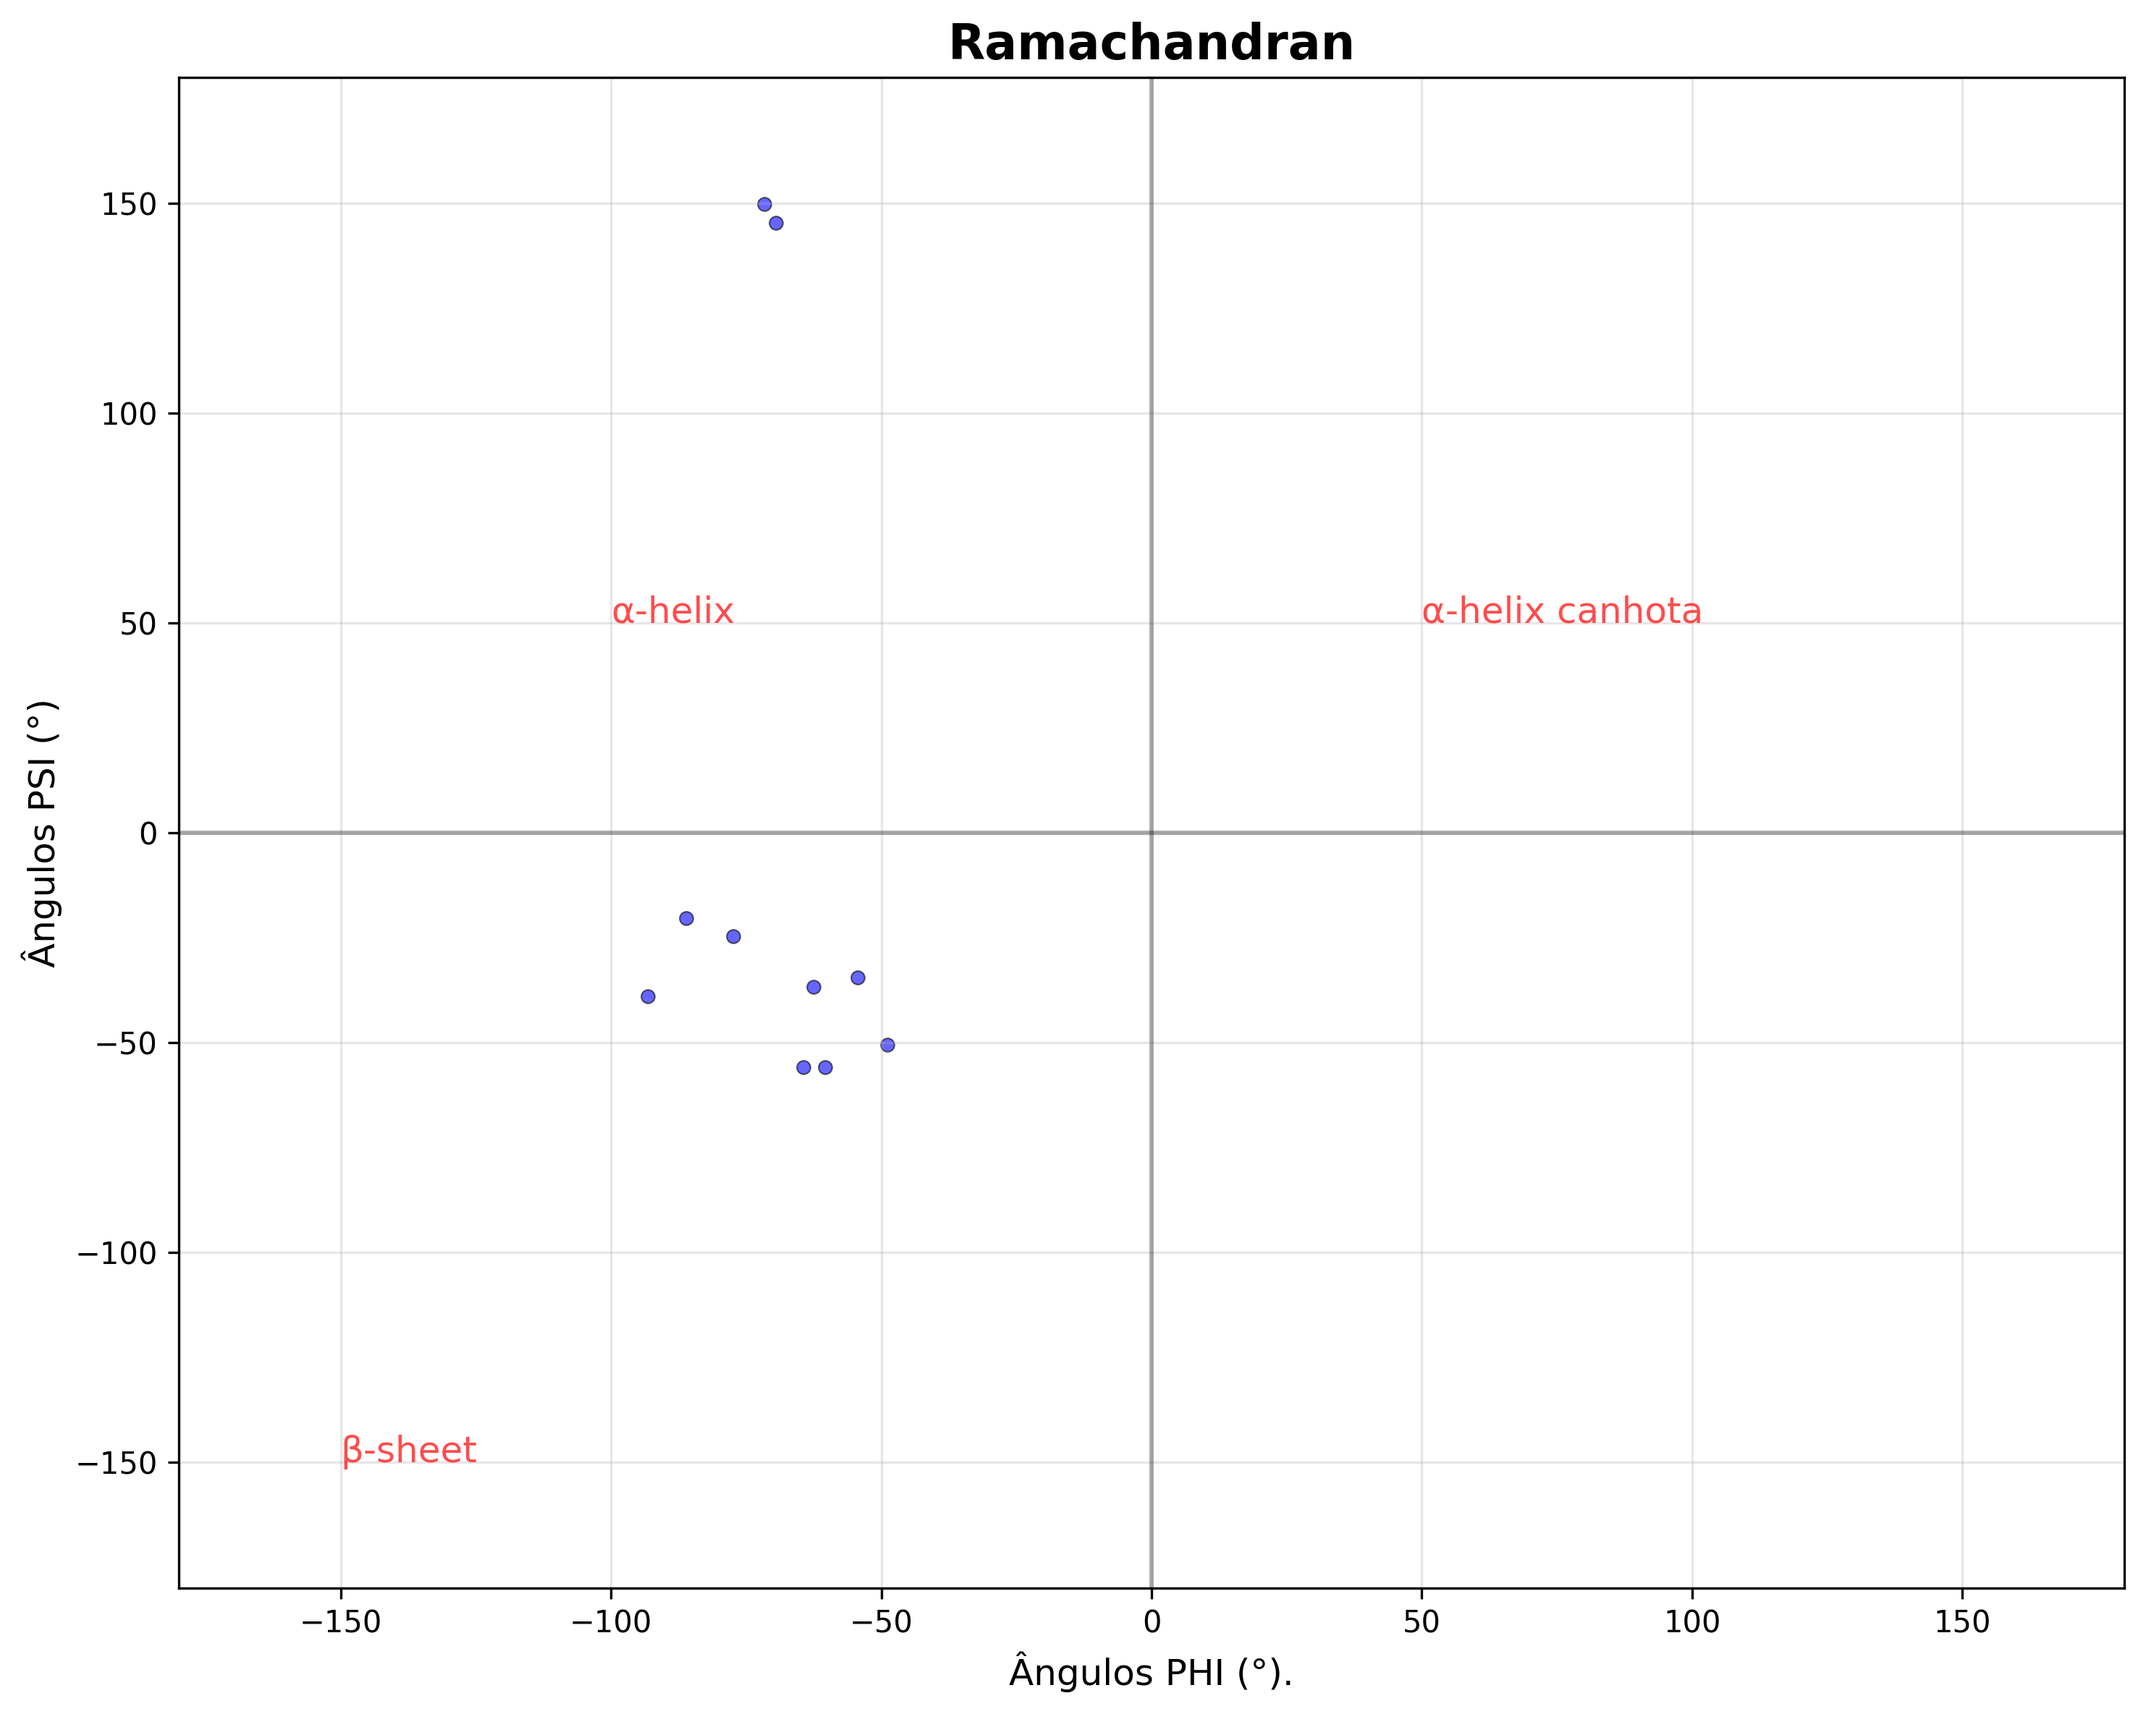
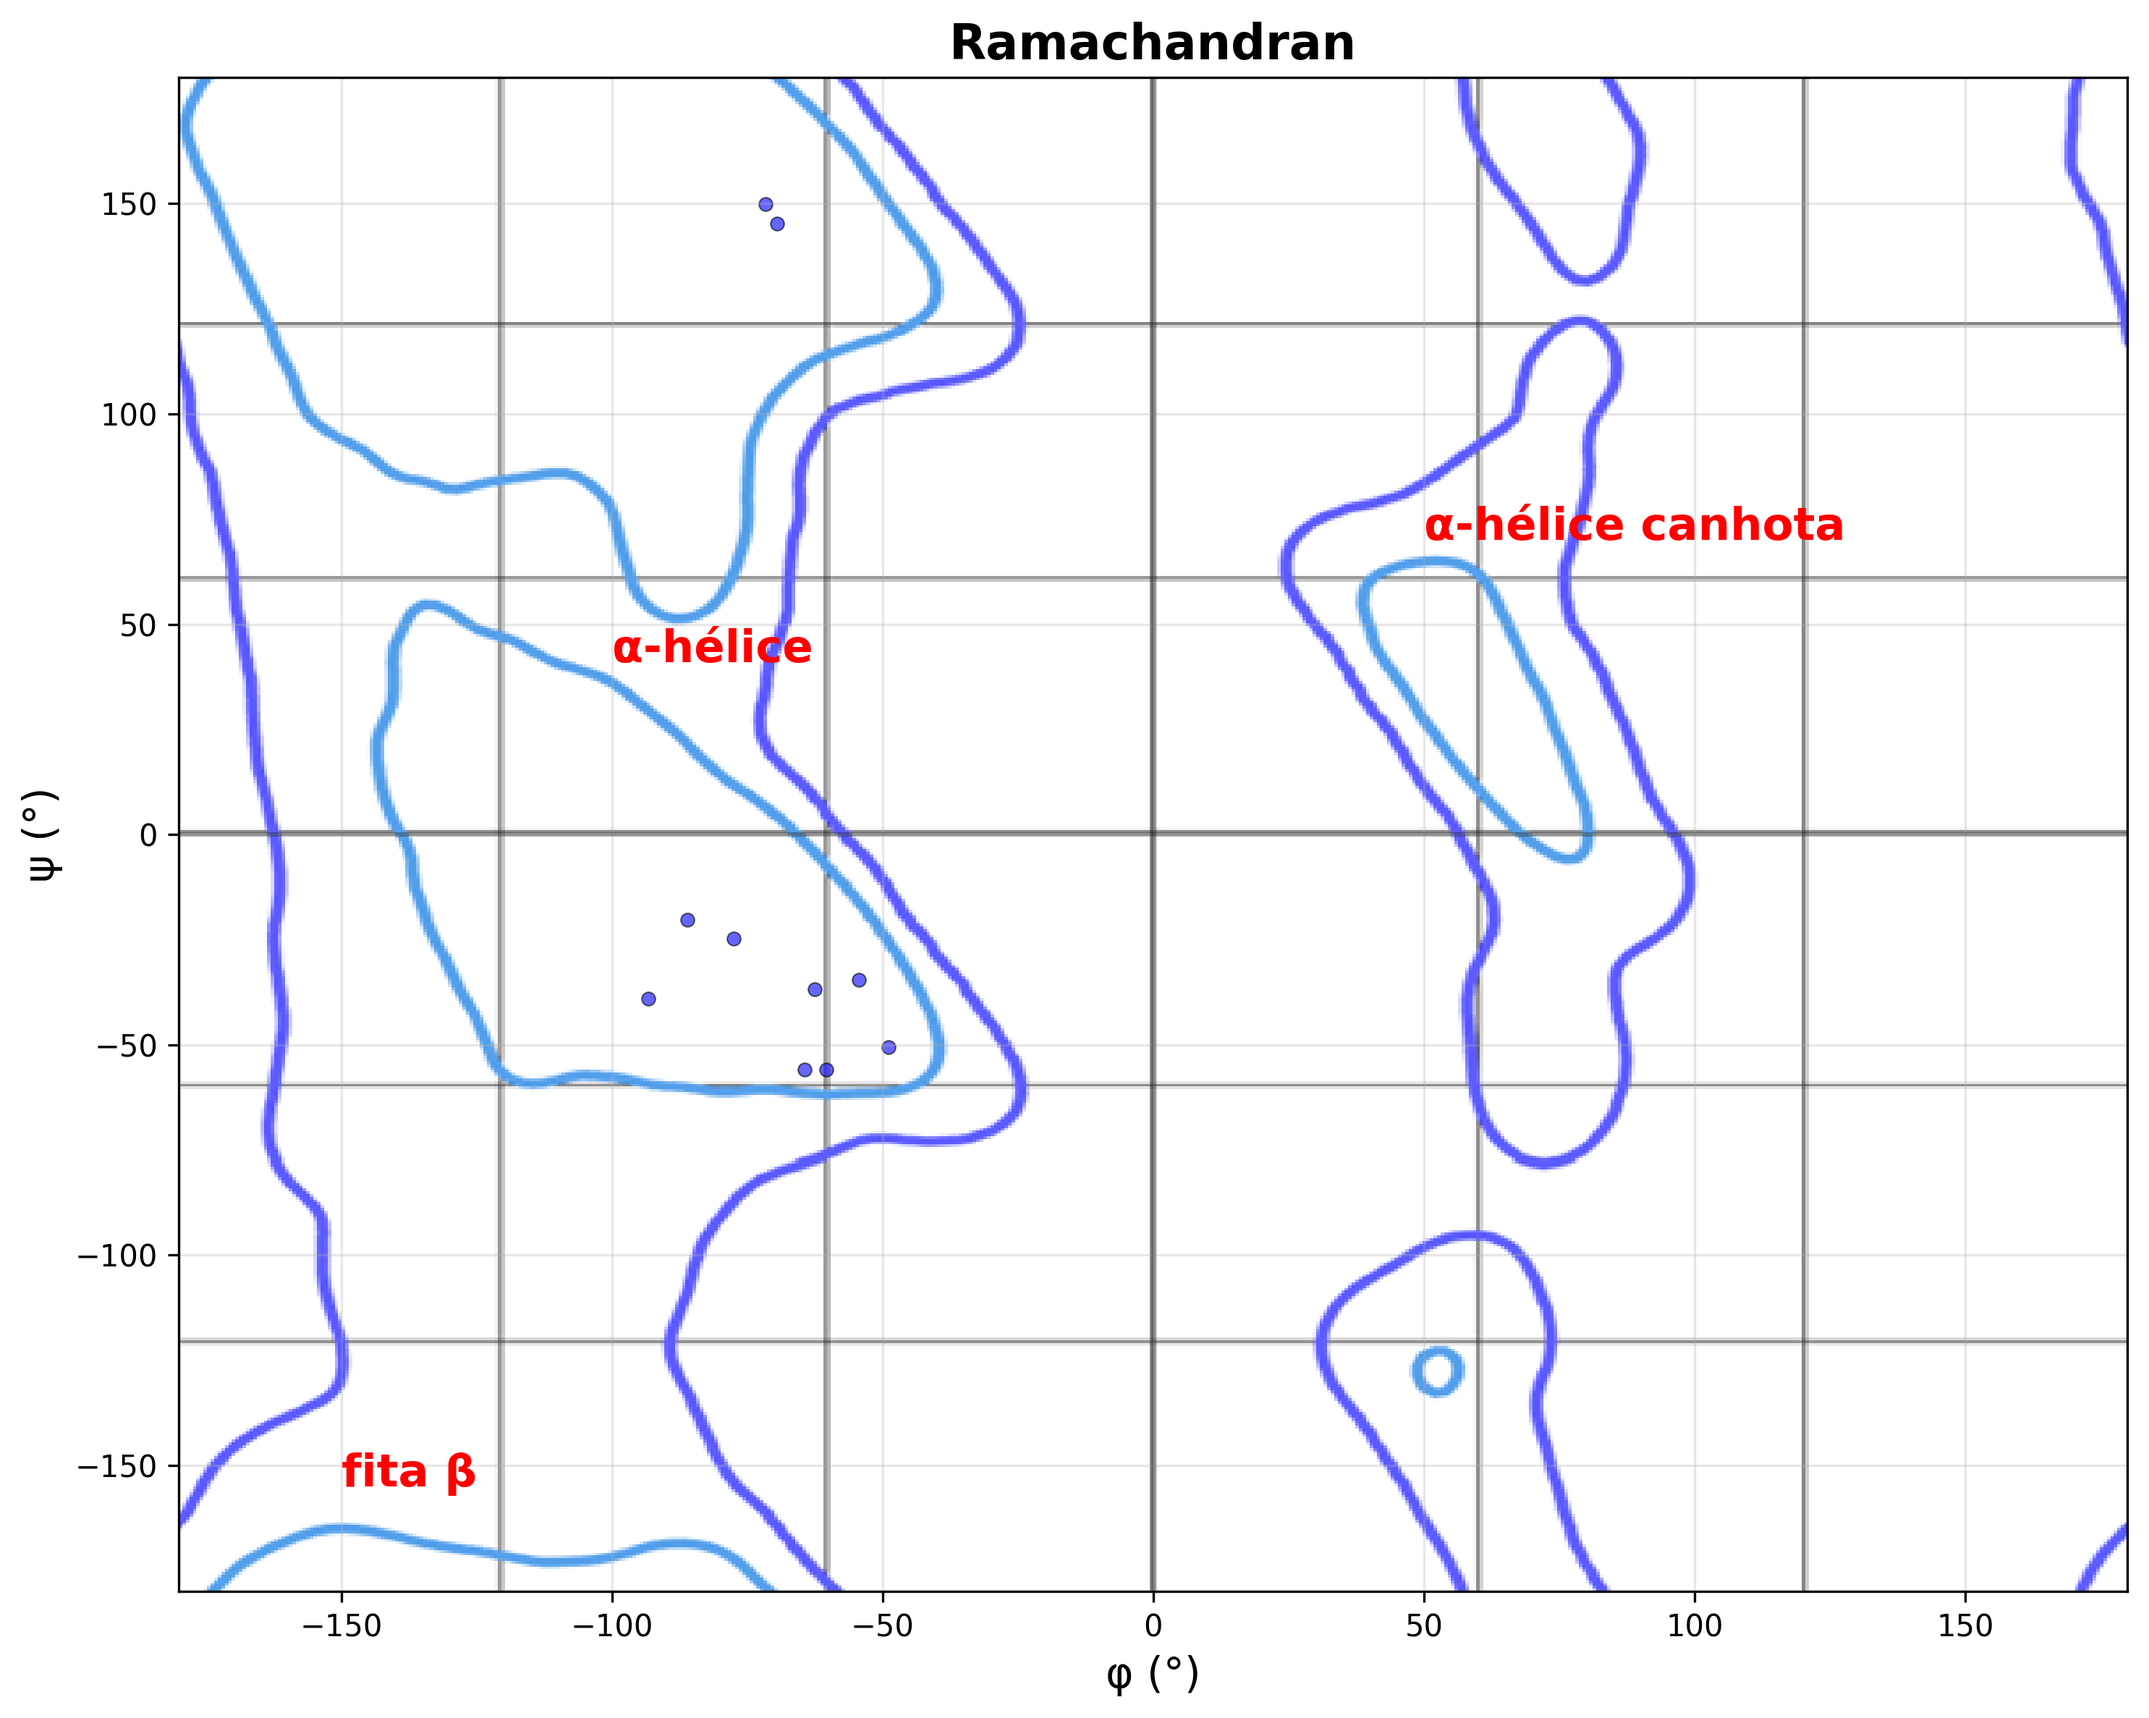
Added background to Ramachandran plot

diff --git a/src/relatorios.py b/src/relatorios.py
@@ -4,6 +4,7 @@ from Bio.PDB.vectors import calc_dihedral
 from Bio.PDB import ShrakeRupley
 import numpy as np
 import matplotlib.pyplot as plt
+from matplotlib.image import imread
 import os
 
 class Relatorio(ABC):
@@ -75,8 +76,17 @@ class Ramachandran(Relatorio):
     def _plot(self, resultado, destino_arquivo="ramachandran.png"):
         angulos_phi = resultado['phi']
         angulos_psi = resultado['psi']
+
+        background_image_path = 'images/ramachandran_contour.png'
+        try:
+            background_img = imread(background_image_path)
+        except FileNotFoundError:
+            print(f"ERRO: Background image not found at '{background_image_path}'. Plotting without background.")
+            background_img = None
         try:
             figura, eixo = plt.subplots(figsize=(10, 8))
+            if background_img is not None:
+                eixo.imshow(background_img, extent=[-180, 180, -180, 180], aspect='auto', origin='upper')
 
             plt.scatter(angulos_phi, angulos_psi, alpha=0.6, s=20, c='blue', edgecolors='black', linewidths=0.5)
             
@@ -88,12 +98,12 @@ class Ramachandran(Relatorio):
             plt.grid(True, alpha=0.3)
 
             plt.title("Ramachandran", fontsize=16, fontweight='bold')
-            plt.xlabel("Ângulos PHI (°).", fontsize=12)
-            plt.ylabel("Ângulos PSI (°)", fontsize=12)
+            plt.xlabel("φ (°)", fontsize=14)
+            plt.ylabel("ψ (°)", fontsize=14)
 
-            plt.text(-150, -150, "β-sheet", fontsize=12, color='red', alpha=0.7)
-            plt.text(-100, 50, "α-helix", fontsize=12, color='red', alpha=0.7)
-            plt.text(50, 50, "α-helix canhota", fontsize=12, color='red', alpha=0.7)
+            plt.text(-150, -155, "fita β", fontsize=15, color='red', alpha=1, fontweight='bold')
+            plt.text(-100, 41, "α-hélice", fontsize=15, color='red', alpha=1, fontweight='bold')
+            plt.text(50, 70, "α-hélice canhota", fontsize=15, color='red', alpha=1, fontweight='bold')
 
             os.makedirs(destino_arquivo, exist_ok=True)
             destino_arquivo = os.path.join(destino_arquivo, f"{self.estrutura.cabecalho['idcode']}_ramachandran.png")

diff --git a/src/pdf.py b/src/pdf.py
@@ -17,7 +17,7 @@ class GeradorPDF:
             with PdfPages(caminho_pdf) as pdf:
                 self.__criar_capa(pdf)
 
-                self.__adicionar_grafico(pdf, f'{self.nome_molecula}_ramachandran.png', "Gráfico de Ramachandran", "Distribuição dos ângulos dihedrais Phi e Psi dos resíduos protéicos.")
+                self.__adicionar_grafico(pdf, f'{self.nome_molecula}_ramachandran.png', "Gráfico de Ramachandran", "Distribuição dos ângulos dihedrais φ e ψ dos resíduos protéicos.")
                 self.__adicionar_grafico(pdf, f'{self.nome_molecula}_mapa_contato.png', "Mapa de Contatos", "Matriz de contatos entre carbonos alfa.")
                 self.__adicionar_grafico(pdf, f'{self.nome_molecula}_ligacoes_hidrogenio.png', "Rede de Ligações de Hidrogênio", "Matriz e distribuição de ligações de hidrogênio na estrutura.")
                 self.__adicionar_grafico(pdf, f'{self.nome_molecula}_distribuicao_sasa.png', "Análise de Acessibilidade", "Distribuição da Área Superficial Acessível ao Solvente.")
